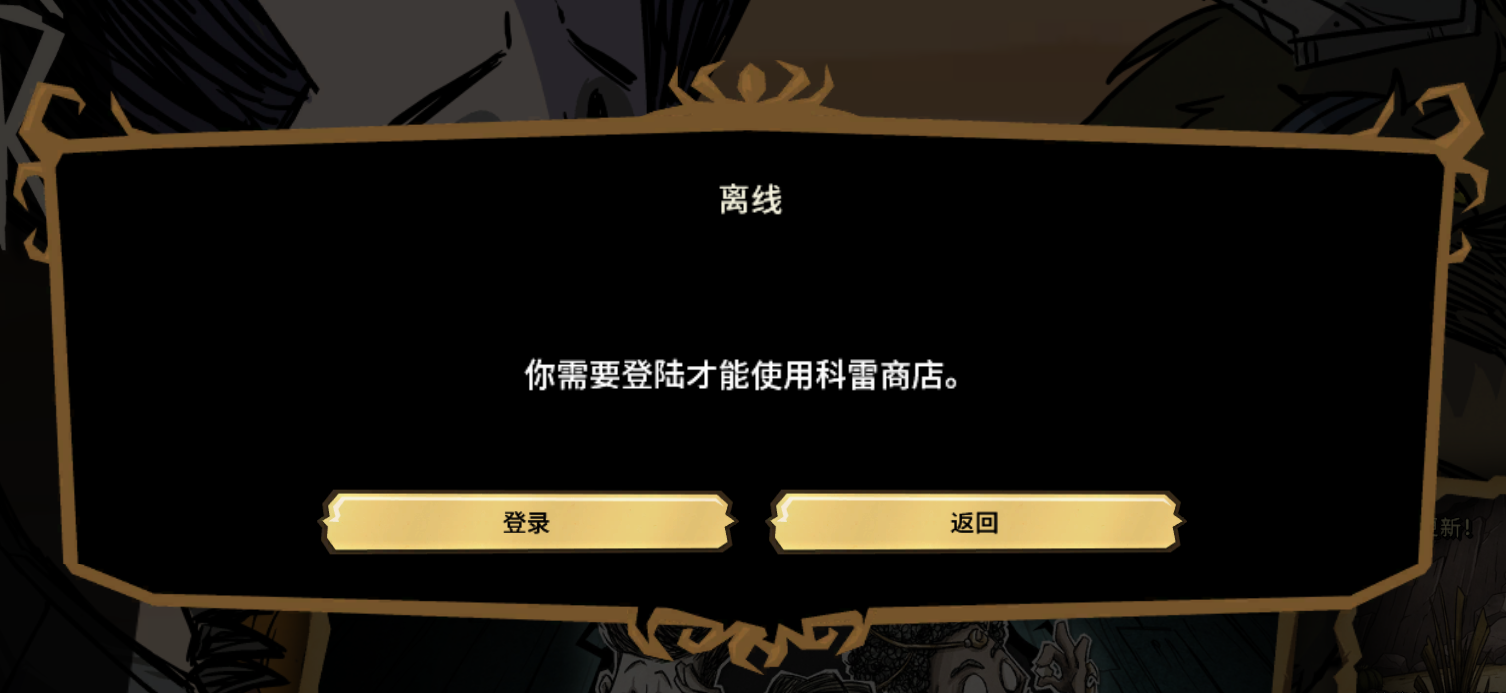
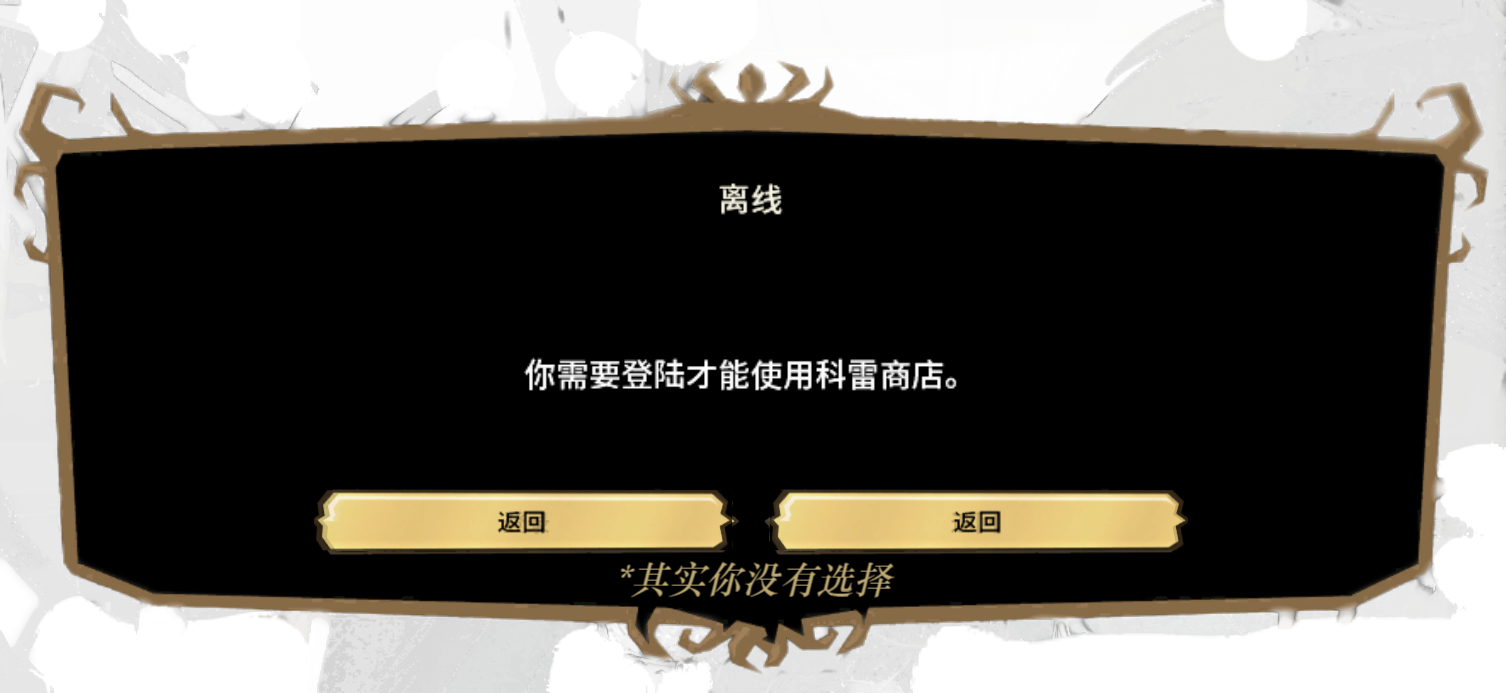
modified:   creator.html 	renamed:    rb.html -> game.html 	modified:   index.html 	new file:   "pic/QQ\345\233\276\347\211\20720240407110912.png" 	modified:   pic/please log in.png 	new file:   "pic/\350\277\224\345\233\236.png" 	modified:   script.js 	deleted:    style1.css 	new file:   style_game

diff --git a/script.js b/script.js
@@ -1,3 +1,74 @@
-document.getElementById('clickableimage').addEventListener('click',function() {
-    alert('you clicked it')
-} )
+var background=document.getElementById('background');
+var overlay = document.getElementById('overlay');
+var popup = document.getElementById('popup');
+
+function handleClick(event) {
+    var x=event.clientX;
+    var y=event.clientY;
+    var windowwidth=window.innerWidth;
+    var windowheight=window.innerHeight;
+
+    if (x>=windowwidth*0.085 && x<=windowwidth*0.188 && y>=windowheight*0.552 && y<=windowheight*0.597) {
+        window.location.href="game.html";
+    } else if (x>=windowwidth*0.085 && x<=windowwidth*0.188 && y>=windowheight*0.655 && y<=windowheight*0.702) {
+        window.location.href="https://wbhu.nju.edu.cn/";
+    } else if (x>=windowwidth*0.072 && x<=windowwidth*0.2 && y>=windowheight*0.773 && y<=windowheight*0.818){
+        window.location.href="creator.html";
+    } else if (x>=windowwidth*0.323 && x<=windowwidth*0.709 && y>=windowheight*0.565 && y<=windowheight*0.944) {
+        showPopup();
+    } else if (x>=windowwidth*0.725 && x<=windowwidth*0.914 && y>=windowheight*0.56 && y<=windowheight*0.742) {
+        window.location.href="https://www.bilibili.com/read/cv33442514/";
+    } else if (x>=windowwidth*0.725 && x<=windowwidth*0.914 && y>=windowheight*0.766 && y<=windowheight*0.946) {
+        window.location.href="https://www.bilibili.com/read/cv30583641/";
+    }
+}
+
+background.addEventListener('mousemove',function(event) {
+    var x=event.clientX;
+    var y=event.clientY;
+    var windowwidth=window.innerWidth;
+    var windowheight=window.innerHeight;
+
+    if (x>=windowwidth*0.085 && x<=windowwidth*0.188 && y>=windowheight*0.552 && y<=windowheight*0.597) {
+        background.style.cursor='pointer';
+    } else if (x>=windowwidth*0.085 && x<=windowwidth*0.188 && y>=windowheight*0.655 && y<=windowheight*0.702) {
+        background.style.cursor='pointer';
+    } else if (x>=windowwidth*0.072 && x<=windowwidth*0.2 && y>=windowheight*0.773 && y<=windowheight*0.818){
+        background.style.cursor="pointer";
+    } else if (x>=windowwidth*0.323 && x<=windowwidth*0.709 && y>=windowheight*0.565 && y<=windowheight*0.944) {
+        background.style.cursor='pointer';
+    } else if (x>=windowwidth*0.725 && x<=windowwidth*0.914 && y>=windowheight*0.56 && y<=windowheight*0.742) {
+        background.style.cursor='pointer';
+    } else if (x>=windowwidth*0.725 && x<=windowwidth*0.914 && y>=windowheight*0.766 && y<=windowheight*0.946) {
+        background.style.cursor='pointer';
+    }  else {
+        background.style.cursor='default';
+    }
+})
+
+function showPopup() {
+    overlay.style.display = 'block';
+    popup.style.display = 'block';
+}
+function closePopup() {
+    overlay.style.display = 'none';
+    popup.style.display = 'none';
+}
+overlay.addEventListener('click', function(event) {
+    if (event.target === overlay) {
+        closePopup();
+    }
+});
+document.getElementById('popupImg').addEventListener('click', function(event) {
+    var x=event.clientX;
+    var y=event.clientY;
+    var windowwidth=window.innerWidth;
+    var windowheight=window.innerHeight;
+
+    if (x>=windowwidth*0.363 && x<=windowwidth*0.491 && y>=windowheight*0.577 && y<=windowheight*0.607) {
+        closePopup();
+    }
+    if (x>=windowwidth*0.508 && x<=windowwidth*0.578 && y>=windowheight*0.577 && y<=windowheight*0.607) {
+        closePopup();
+    }
+});

diff --git a/style_mainpage.css b/style_mainpage.css
@@ -1,5 +1,5 @@
 body {
-    background-image: url('pic/mainpage.png');
+    background-image: url('pic/full_main_page.png');
     background-repeat: no-repeat;
     background-attachment: fixed;
     background-size:cover;
@@ -18,34 +18,48 @@ img.logo {
     top: 1%;
     left: 1%;
     z-index: 10;
+    cursor: pointer;
 }
 
 .container {
-    height: 50%;
-    width: 20%;
-    position:absolute;
-    top: 40%;
-    left: 5%;
+    position: fixed;
+    height: auto;
+    width: auto;
+    left: auto;
+    top: auto;
+    z-index: 1;
 }
 
-#start_game {
-    position: absolute;
+#background {
+    width: 100%;
+    height: 100vh;
+    background-image: url('pic/full_main_page.png');
+    background-size: cover;
+    background-position: center;
+}
+
+#overlay {
+    position: fixed;
     top: 0;
     left: 0;
-    width: 50%;
-    height: 50%;
-    transform: translate(-50%,-50%);
-    cursor: pointer;
-    transition: transform 0.3s ease;
+    width: 100%;
+    height: 100%;
+    background-color: rgba(0, 0, 0, 0.5);
+    display: none;
+    z-index: 1;
 }
 
-#back_to_main {
-    position: absolute;
-    top:30%;
-    left: 0;
-    width: 60%;
-    height: 60%;
-    transform: translate(-50%,-50%);
-    cursor: pointer;
-    transition: transform 0.3s ease;
+#popup {
+    position: fixed;
+    top: 50%;
+    left: 50%;
+    transform: translate(-50%, -50%);
+    padding: 20px;
+    display: none;
+    z-index: 2;
+}
+
+#popup img {
+    max-width: 100%;
+    max-height: 80vh;
 }

diff --git a/creator.html b/creator.html
@@ -1,10 +1,60 @@
 <!DOCTYPE html>
-<html lang="zh-CN">
+<html>
 <head>
-    <title>制作者页面</title>
-</head>
+<meta charset="utf-8">
+<title>制作者页面</title>
+<style>
+    body {
+        background-color: rgb(0, 0, 0);
+    }
+    ul {
+        position: fixed;
+        top: 0;
+        width: 100%;
+        list-style-type: none;
+        margin: auto;
+        padding: auto;
+        overflow: hidden;
+        background-color: #333;
+    }
+    
+    li {
+        float: left;
+    }
+    
+    li a {
+        display: block;
+        color: white;
+        text-align: center;
+        padding: 14px 16px;
+        text-decoration: none;
+    }
+    
+    li a:hover:not(.active) {
+        background-color: #111;
+    }
 
-<body>
-    <p>这里什么也没有！</p>
-</body>
-</html>
+    .active {
+        background-color: darkseagreen;
+    }
+    </style>
+    </head>
+    <body>
+    
+    <ul>
+      <li>
+        <a href="main">主页</a>
+      </li>
+      <li>
+        <a href="#news">c1</a>
+      </li>
+      <li><a href="#contact">c2</a></li>
+      <li><a href="#about">c3</a></li>
+      <li><a href="">c4</a></li>
+      <li><a href="">c5</a></li>
+    </ul>
+
+    <div class=""
+    
+    </body>
+    </html>

diff --git a/index.html b/index.html
@@ -18,14 +18,10 @@
     <a href="https://wbhu.nju.edu.cn/">
         <img src="pic/logo-garden.gif" class="logo">
     </a>
-
-    <div class="container">
-        <a href="https://baidu.com"> 
-            <img src="pic/game_start.png" class="start_game">
-        </a>
-        <a href="https://wbhu.nju.edu.cn/">
-            <img src="pic/back_to_main.png" class="back_to_main">
-        </a>
+    <div id="background" onclick="handleClick(event)"></div>
+    <div id="overlay"></div>
+    <div id="popup">
+        <img id="popupImg" src="pic/please log in.png" alt="Popup Image">
     </div>
     <script src="script.js"></script>
 </body>

diff --git a/style_game.css b/style_game.css
@@ -1,0 +1,35 @@
+body {
+    background-image: url('pic/coll.png');
+    background-repeat: no-repeat;
+    background-attachment: fixed;
+    background-size:cover;
+}
+
+img.logo {
+    height:7%;
+    width: auto;
+    position: absolute;
+    top: 1%;
+    left: 1%;
+    z-index: 10;
+    cursor: pointer;
+}
+
+#overlay {
+    position: fixed;
+    top: 0;
+    left: 0;
+    width: 100%;
+    height: 100%;
+    background-color: rgba(21, 1, 1, 0.5);
+    z-index: 2;
+}
+
+#wil {
+    position: fixed;
+    top: 50%;
+    left: 50%;
+    transform: translate(-50%, -50%);
+    padding: 20px;
+    z-index: 3;
+}

diff --git a/game.html b/game.html
@@ -3,16 +3,17 @@
 <head>
 <meta charset="utf-8"> 
 <title>菜鸟教程(runoob.com)</title> 
-<link rel="stylesheet" href="style1.css" />
+<link rel="stylesheet" href="style_game.css" />
 </head>
 
 <body>
-    <a href="cook.html" class="cook">
-        <img src="pic/pot.png" class="pot">
-    </a>
     <a href="https://wbhu.nju.edu.cn/">
         <img class="logo" src="pic/logo-garden.gif"/> 
     </a>
+    <div class="overlay"></div>
+    <div id="wil">
+        <img src="pic/威尔逊.png">
+    </div>
 </body>
 
 </html>
